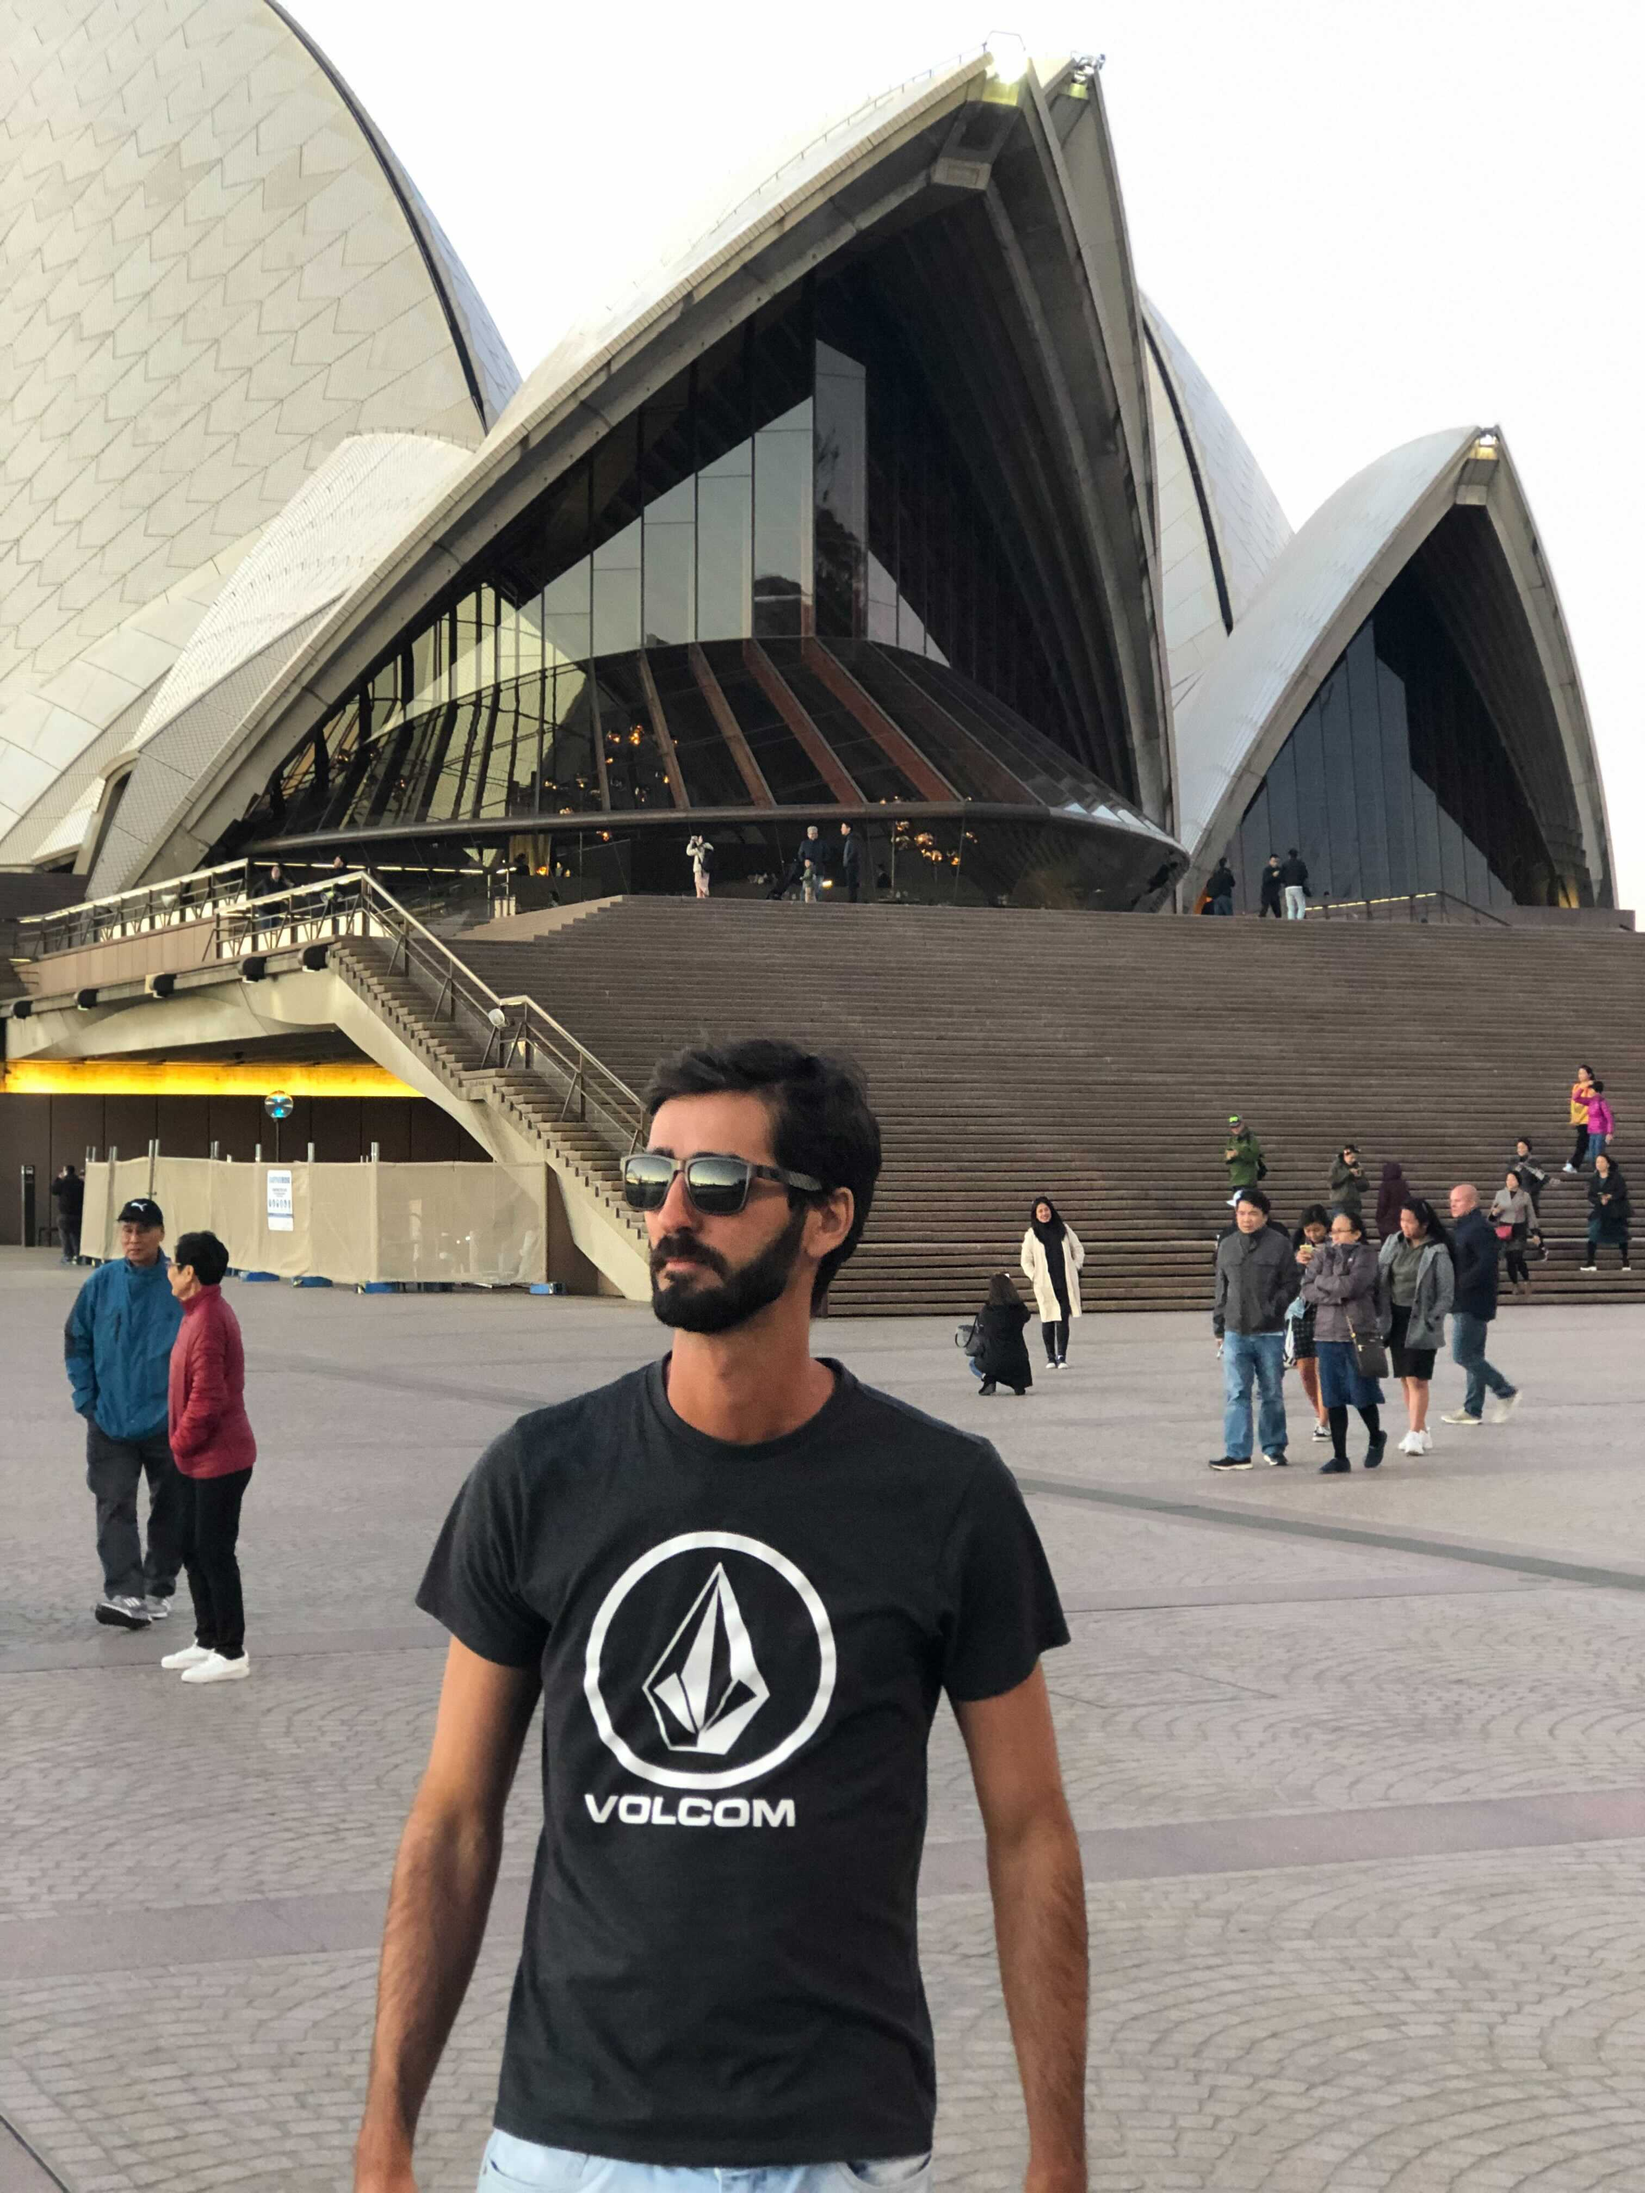
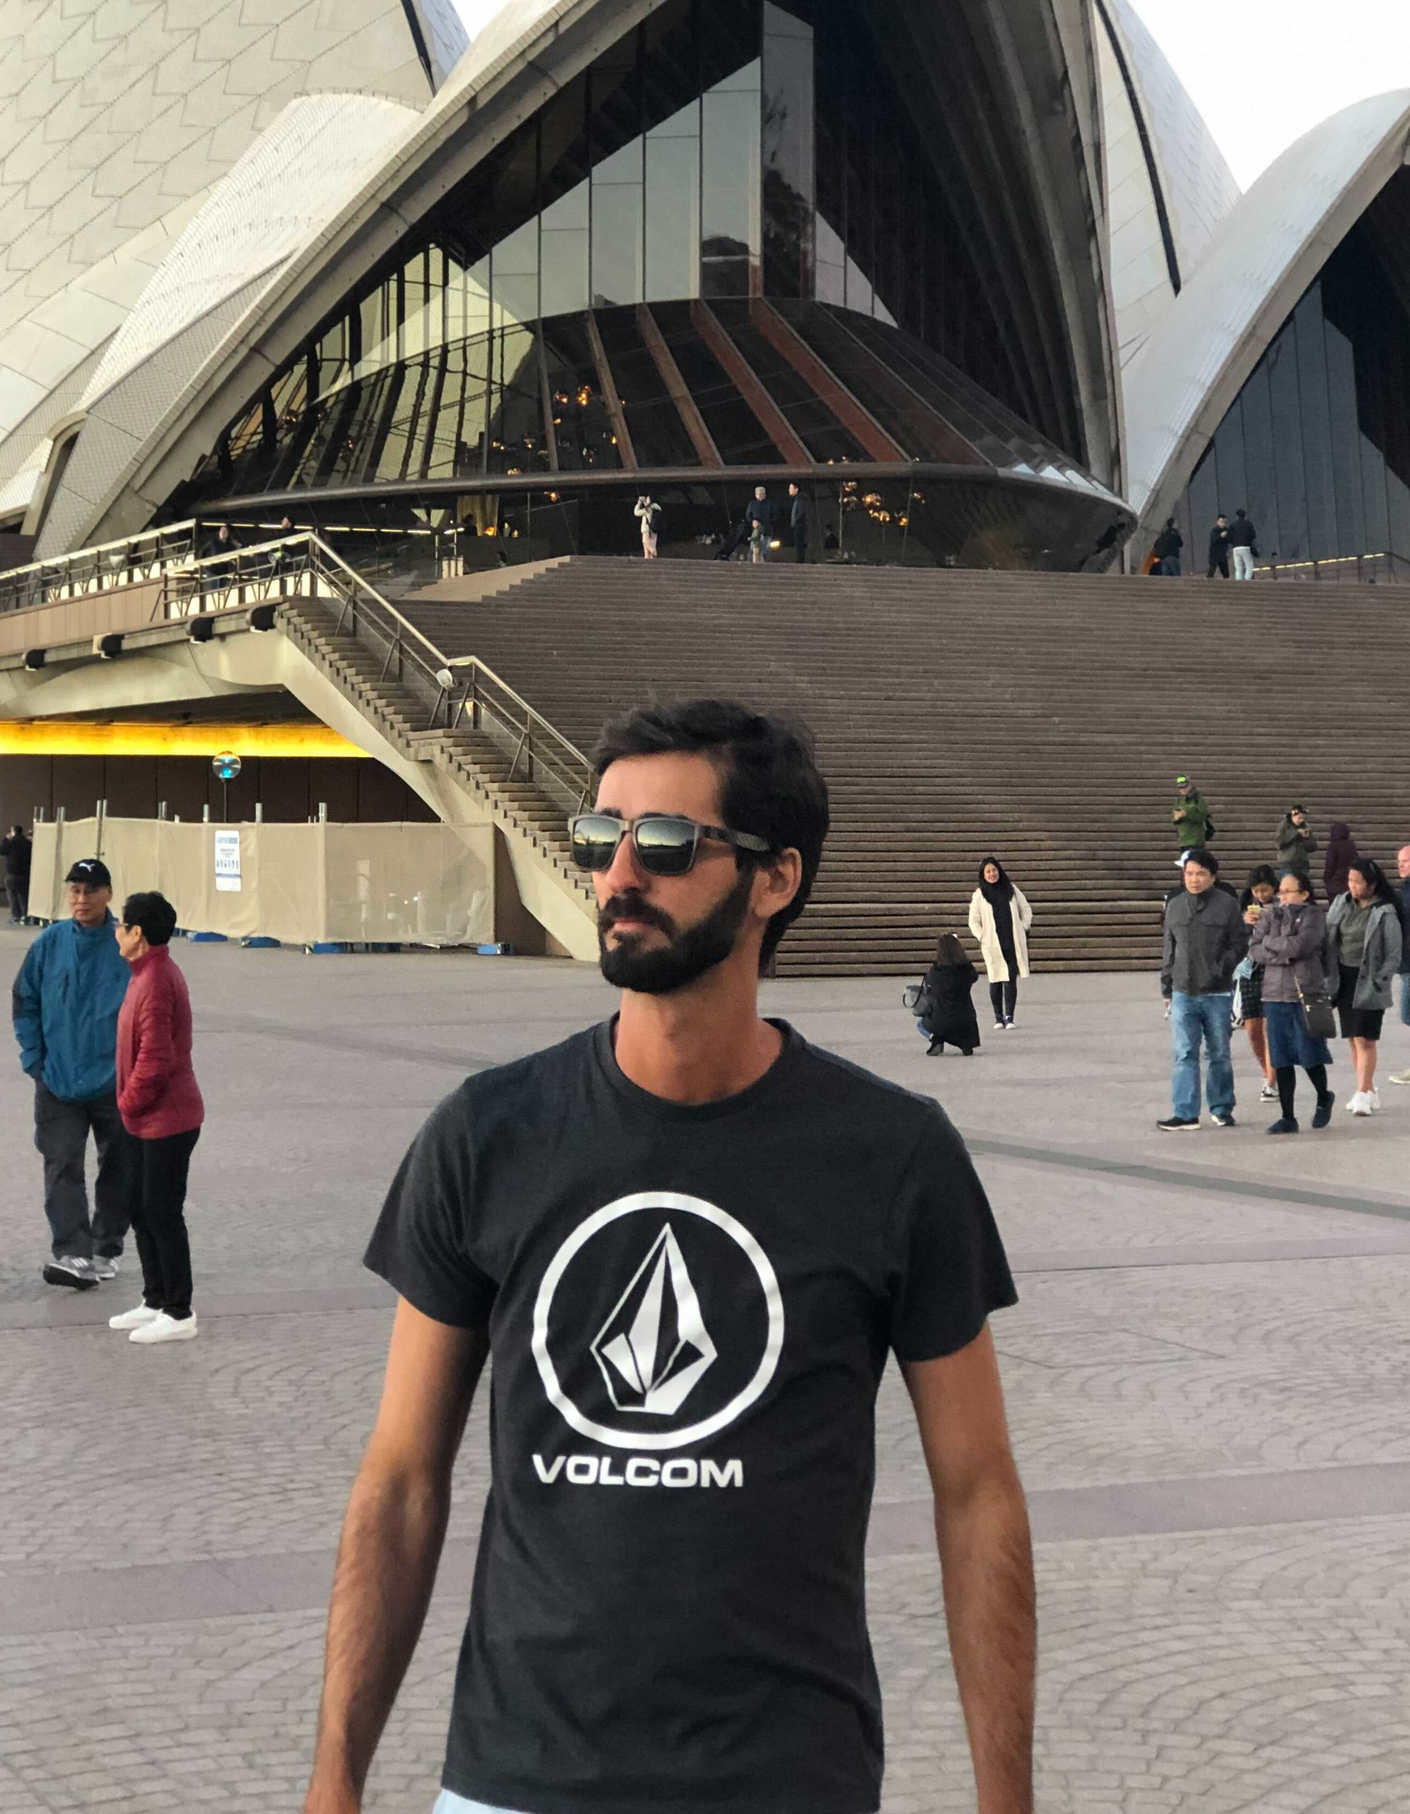
add foto e link breno

diff --git a/about.html b/about.html
@@ -29,8 +29,8 @@
     </section>
     <section class="sobre_conteudoFoto">
       <div class="grid_item column-flex game-card next-release-card container-alunos">
-        <a href="https://www.linkedin.com/in/" target="_blank" class="content" >
-        <img src="./img/grupo/fotoEmBranco.jpg" class="sobre_img" alt="" srcset="">
+        <a href="https://www.linkedin.com/in/breno-rodrigues-souza-7464b2211" target="_blank" class="content" >
+        <img src="./img/grupo/breno.jpg" class="sobre_img" alt="" srcset="">
         <div class="linkedin">
           <h2>LinkedIn</h2>
         </div>
